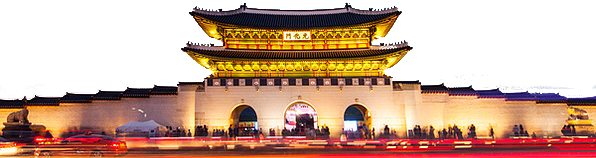
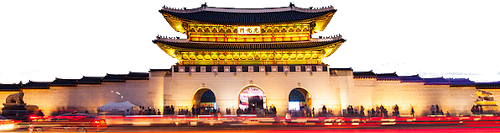
ex10: change shadow-color

diff --git a/ex10-timeSpace/Landmark.js b/ex10-timeSpace/Landmark.js
@@ -1,3 +1,5 @@
+import { rand } from "./App.js"
+
 export default class Landmark {
   constructor(app, space) {
     this.app = app
@@ -6,7 +8,18 @@ export default class Landmark {
 
     this.images.push(this.loadImage('../images/ex10/england.png')) //0
     this.images.push(this.loadImage('../images/ex10/france.png')) //1
-    this.images.push(this.loadImage('../images/ex10/korea.png')) //2
+    this.images.push(this.loadImage('../images/ex10/china.png')) //2
+    this.images.push(this.loadImage('../images/ex10/korea.png')) //3
+    this.images.push(this.loadImage('../images/ex10/india.png')) //4
+    this.images.push(this.loadImage('../images/ex10/russia.png')) //5
+    this.images.push(this.loadImage('../images/ex10/usa.png')) //6
+    this.images.push(this.loadImage('../images/ex10/canada.png')) //7
+    this.images.push(this.loadImage('../images/ex10/egypt.png')) //8
+    this.images.push(this.loadImage('../images/ex10/africa.png')) //9
+    this.images.push(this.loadImage('../images/ex10/brazil.png')) //10
+    this.images.push(this.loadImage('../images/ex10/austrailia.png')) //11
+
+    this.colors = this.images.map(i=>rand(0, 359))
   }
   draw(ctx) {
     let x = this.space.x
@@ -24,15 +37,49 @@ export default class Landmark {
     ly = y + u * 19
     this.drawLandmark(1, lx, ly, u, ctx, 0.5)
 
-    lx = x + u * 85
-    ly = y + u * 26
+    lx = x + u * 70
+    ly = y + u * 18
+    this.drawLandmark(5, lx, ly, u, ctx, 2)
+
+    lx = x + u * 73
+    ly = y + u * 27
     this.drawLandmark(2, lx, ly, u, ctx, 2)
 
+    lx = x + u * 68
+    ly = y + u * 34
+    this.drawLandmark(4, lx, ly, u, ctx, 2)
 
+    lx = x + u * 85
+    ly = y + u * 26
+    this.drawLandmark(3, lx, ly, u, ctx, 2)
+
+    lx = x + u * 14
+    ly = y + u * 12
+    this.drawLandmark(7, lx, ly, u, ctx, 0.5)
+
+    lx = x + u * 18
+    ly = y + u * 20
+    this.drawLandmark(6, lx, ly, u, ctx, 0.5)
+
+    lx = x + u * 49
+    ly = y + u * 32
+    this.drawLandmark(8, lx, ly, u, ctx, 2)
+
+    lx = x + u * 50
+    ly = y + u * 45
+    this.drawLandmark(9, lx, ly, u, ctx, 2)
+
+    lx = x + u * 23
+    ly = y + u * 38
+    this.drawLandmark(10, lx, ly, u, ctx, 0.5)
+
+    lx = x + u * 87
+    ly = y + u * 50
+    this.drawLandmark(11, lx, ly, u, ctx, 2)
   }
 
   drawLandmark(idx, lx, ly, u, ctx, xyRatio) { //이미지 인덱스, 랜드마크 기준점, 단위값, 컨텍스트, xy비율(x/y)
-    let light = this.app.time.light / (100 * u)
+    let light = this.app.time.light / (200 * u)
     let dx = (lx - this.app.time.x) * light //태양과 랜드마크의 거리
     let dy = (ly - this.app.time.y) * light
 
@@ -47,10 +94,12 @@ export default class Landmark {
 
     let sx = lx //그림자 기준점
     let sy = ly + u * 5 * yRatio //그림자 기준점
+    dx *= xRatio
+    dy *= yRatio
     
 
     ctx.drawImage(this.images[idx], lx, ly, u * 5 * xRatio, u * 5 * yRatio)
-    ctx.fillStyle = `hsl(${0} 0% ${(50 - this.app.time.light) / 3}%)`
+    ctx.fillStyle = `hsl(${this.colors[idx]} 50% ${this.app.time.light}%)`
     ctx.beginPath()
     ctx.moveTo(sx, sy) //그림자 시작. 왼쪽위
     ctx.lineTo(sx + dx, sy + dy) //그림자 왼쪽아래 (+dx, +dy)
